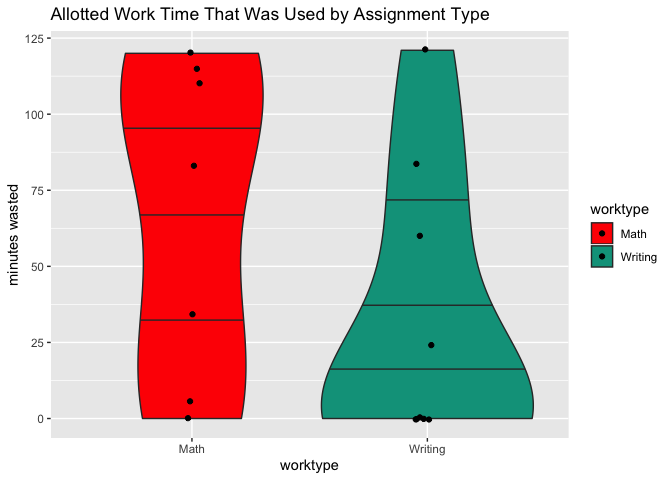
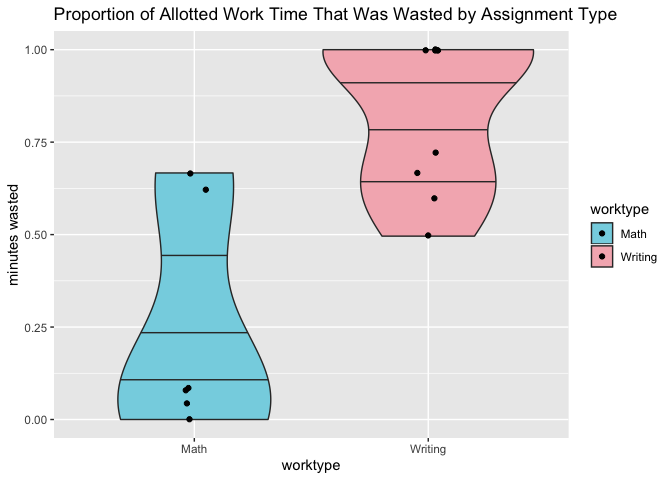
commit

diff --git a/index.md b/index.md
@@ -30,7 +30,7 @@ Data Collection
 ---------------
 
 I collected data by logging in my daily schedule into Google Calendar.
-Every morning for two weeks, I logged in my day’s planned activities and
+Every morning for 13 days, I logged in my day’s planned activities and
 stuck to the schedule (for the most part). So, each day I planned set
 times to do my writing or math assignments or sometimes both. In the
 dataset, the *allottedtime* variable tracks the amount of time I gave
@@ -123,74 +123,72 @@ Results
 
 ### Question 1: Overall, how am I spending my time?
 
+The graph below shows my daily activity breakdown over a two week
+period. There is a lot variation in my daily activites! Every day looks
+a little bit different.
+
 ![](activities.gif)
 
-    activitiesplot <- ggplot(allactivities, aes(x=activity, fill = activity, y = hours)) + 
-       geom_bar(stat = "identity") +
-       scale_fill_manual(values = pal) +
-      labs(title = "What I have been doing in Quarantine",
-           y = "total hours")
-    activitiesplot
+This second plot depicts the total hours that I spent on each activity
+during the two week period. I did not keep track of the time that I was
+sleeping or waking up, which explains why there are less hours than
+there are in two weeks.
 
-![](index_files/figure-markdown_strict/unnamed-chunk-6-1.png)
+I have a lot of free time! By a wide margin, most of the time is going
+towards free time. This makes sense, because I have had a lot of free
+time. Because I categorized any time spent eating, exercising, talking
+with my friends, and watching films/reading as free time, there are many
+different activities that add to total that is just shy of 80 hours.
 
-    pal <- wes_palette("GrandBudapest2", n=4, type = "discrete")
+At first glance, it doesn’t look like I’m spending a lot of time on
+school. However, three separate categories are all school work time–if I
+added up math, writing, and work, this would be about 64 hours of work
+time. (The *work* category is for miscellaneous schoolwork that I am not
+tracking for my productivity analysis).
 
-    #Plot 1: violinplot of how much time is wasted in bed versus at the desk
+### Questions 2 and 3
 
-    violinplot <- ggplot(productivitydata, aes(x = studyarea, y = timewasted, fill = studyarea)) +
-      geom_violin(draw_quantiles = c(0.25, 0.5, 0.75)) + #geom_count()
-      geom_jitter(width = 0.05) +
-      scale_fill_manual(values = pal)
-      labs(title = "Allotted Work Time That was Wasted by Study Area",
-           y = "minutes wasted")
+While I spent 24 hours writing and 15 hours doing math problems, how
+much of that time was actually spent working? Often, I found myself
+sitting down to begin a work session, only to fall down a self care
+Youtube rabbit hole after ten minutes of focusing.
 
-    ## $y
-    ## [1] "minutes wasted"
-    ## 
-    ## $title
-    ## [1] "Allotted Work Time That was Wasted by Study Area"
-    ## 
-    ## attr(,"class")
-    ## [1] "labels"
-
-    violinplot
+First, I wanted to explore whether the place that I worked had any
+effect on my productivity level. The violin plot below depicts this. The
+bands represent the quartiles while the width of the plot represents the
+probability density of the data at that value.
 
 ![](index_files/figure-markdown_strict/unnamed-chunk-7-1.png)
 
-    #plot2, control for amount of time spent
-    violinplot2 <- ggplot(productivitydata, aes(x = studyarea, y = timewastedproportion, fill = studyarea)) +
-      geom_violin(draw_quantiles = c(0.25, 0.5, 0.75)) + #geom_count()
-      geom_jitter(width = 0.05) +
-      scale_fill_manual(values = pal)+
-      labs(title = "Proportion of Allotted Work Time that was Wasted by Study Area",
-           y = "time wasted/Time Allotted")
-    violinplot2
+There is a lot of variation in both categories, but more in bed than in
+desk. Desk minutes wasted has an outlier, but most of the data is lower,
+so the probability density is also lower. In truth, desk is the widest
+at its lowest values, meaning that it is more probable for me not to
+waste a lot of time (below 50 minutes) at my desk. Bed is a different
+story, as it looks like the medians is around 100 wasted minutes.
+
+But wait! Doesn’t the allotted time affect the amount of time wasted? If
+I give less time to work done in my bed, wouldn’t there naturally be
+less minutes wasted? To control for this, I compared the proportions of
+time wasted out of the total allotted work time.
 
 ![](index_files/figure-markdown_strict/unnamed-chunk-8-1.png)
 
-    pal <- wes_palette("Moonrise3", n=4, type = "discrete")
-    #plot3, math versus writing
-    violinplot3 <- ggplot(productivitydata, aes(x = worktype, y = timewasted, fill = worktype)) +
-      geom_violin(draw_quantiles = c(0.25, 0.5, 0.75)) + #geom_count()
-      geom_jitter(width = 0.05)+
-      scale_fill_manual(values = pal)+
-      labs(title = "Allotted Work Time That Was Wasted by Assignment Type",
-           y = "minutes wasted")
-    violinplot3
+Here, we see that the distributions of proportions of work time wasted
+are very similar, regardless of the area worked. Therefore, we can
+eliminate the work area as a factor that has any serious effect on my
+productivity.
+
+Secondly, I looked at the amount of time wasted by assignment type. At
+first glance, it looks like there is a lot of variatiion in minutes
+wasted for writing assignments but not a lot for math assignments.
+Additionally, there seem to be less minutes wasted overall for math than
+for writing assignments. However, let’s control for proportions.
 
 ![](index_files/figure-markdown_strict/unnamed-chunk-9-1.png)
 
-    #plot4, math versus writing controlling for differences in allotted time
-    violinplot4 <- ggplot(productivitydata, aes(x = worktype, y = timewastedproportion, fill = worktype)) +
-      geom_violin(draw_quantiles = c(0.25, 0.5, 0.75)) + #geom_count()
-      geom_jitter(width = 0.05)+
-      scale_fill_manual(values = pal)+
-      labs(title = "Allotted Work Time That Was Wasted by Assignment Type",
-           y = "minutes wasted")
-    violinplot4
-
-![](index_files/figure-markdown_strict/unnamed-chunk-10-1.png)
+![](index_files/figure-markdown_strict/unnamed-chunk-10-1.png) After
+controlling for proportions
 
     #filter out the outlier for math
     noutliers <- productivitydata %>% filter(summary != "60, YoutubeLinear, Bed, 5")
@@ -198,11 +196,11 @@ Results
       geom_violin(draw_quantiles = c(0.25, 0.5, 0.75)) + #geom_count()
       geom_jitter(width = 0.05)+
       scale_fill_manual(values = pal)+
-      labs(title = "Allotted Work Time That Was Wasted by Assignment Type",
+      labs(title = "Proportion of Allotted Work Time That Was Wasted by Assignment Type",
            y = "minutes wasted")
     violinplot5
 
-![](index_files/figure-markdown_strict/unnamed-chunk-10-2.png)
+![](index_files/figure-markdown_strict/unnamed-chunk-11-1.png)
 
     #time productive by worktype
     pal <- wes_palette("Darjeeling1", n=4, type = "discrete")
@@ -214,7 +212,7 @@ Results
            y = "minutes wasted")
     violinplot6
 
-![](index_files/figure-markdown_strict/unnamed-chunk-11-1.png)
+![](index_files/figure-markdown_strict/unnamed-chunk-12-1.png)
 
     violinplot7 <- ggplot(noutliers, aes(x = worktype, y = timeworkedproportion, fill = worktype)) +
       geom_violin(draw_quantiles = c(0.25, 0.5, 0.75)) + #geom_count()
@@ -224,7 +222,7 @@ Results
            y = "minutes wasted")
     violinplot7
 
-![](index_files/figure-markdown_strict/unnamed-chunk-11-2.png)
+![](index_files/figure-markdown_strict/unnamed-chunk-12-2.png)
 
     #linegraph
     #manually enter missing day values
@@ -244,37 +242,8 @@ Results
     ## `geom_smooth()` using method = 'loess' and formula 'y ~ x'
     ## `geom_smooth()` using method = 'loess' and formula 'y ~ x'
 
-![](index_files/figure-markdown_strict/unnamed-chunk-12-1.png)
+![](index_files/figure-markdown_strict/unnamed-chunk-13-1.png)
 
     cor(productivitydata$daysleft, productivitydata$timewastedproportion)
 
     ## [1] 0.4391658
-
-1.  Create relevant summaries and visualizations, wrangling the data as
-    necessary along the way. (Note: MUCH, MUCH LESS wrangling is
-    expected here than in the Clearinghouse Challenge. The `ical`
-    package imports the calendar data into a nicely formatted dataframe,
-    with variables for summary of the event, time start, time end, and
-    description.) Wrangling should *not* take a substantial amount of
-    time.
-
-2.  What insights can you glean from how you’re spending your time?
-    Write a 3-5 paragraph report introducing your questions of interest,
-    explaining what you found, and reflecting on the answers to your
-    questions posed.
-
-3.  Finally, write a short reflection (1-2 paragraphs) on the process.
-    As someone who provides data: What expectations do you have when you
-    give your data (e.g. to Facebook, Google, MapMyRun, etc.)? As
-    someone who analyzes others’ data: What legal and ethical
-    responsibilities do you have?
-
-Data collection
-===============
-
-Results
-=======
-
-And here are my results . . .
-
-    # intersperse relevant figures and text
